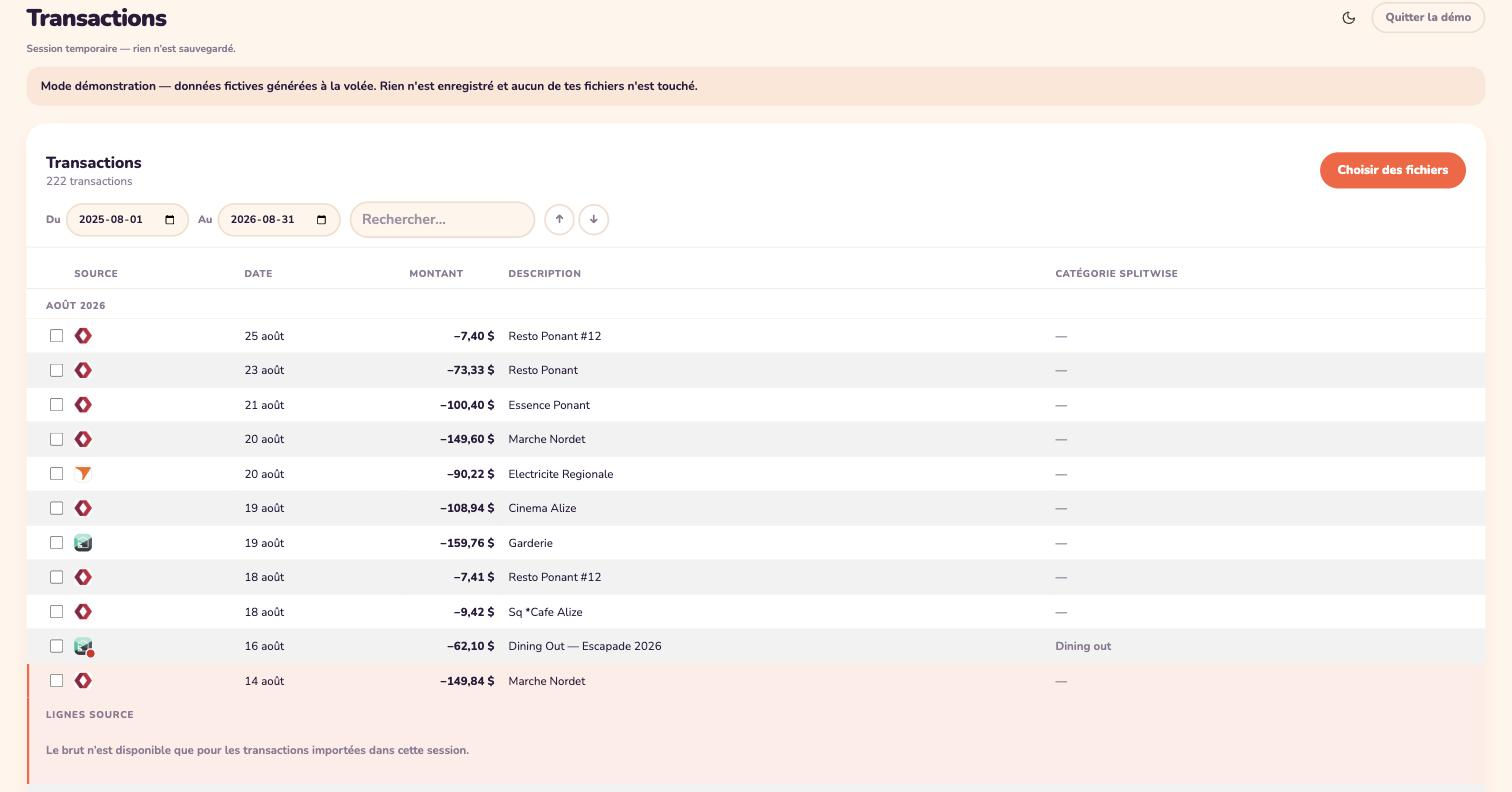
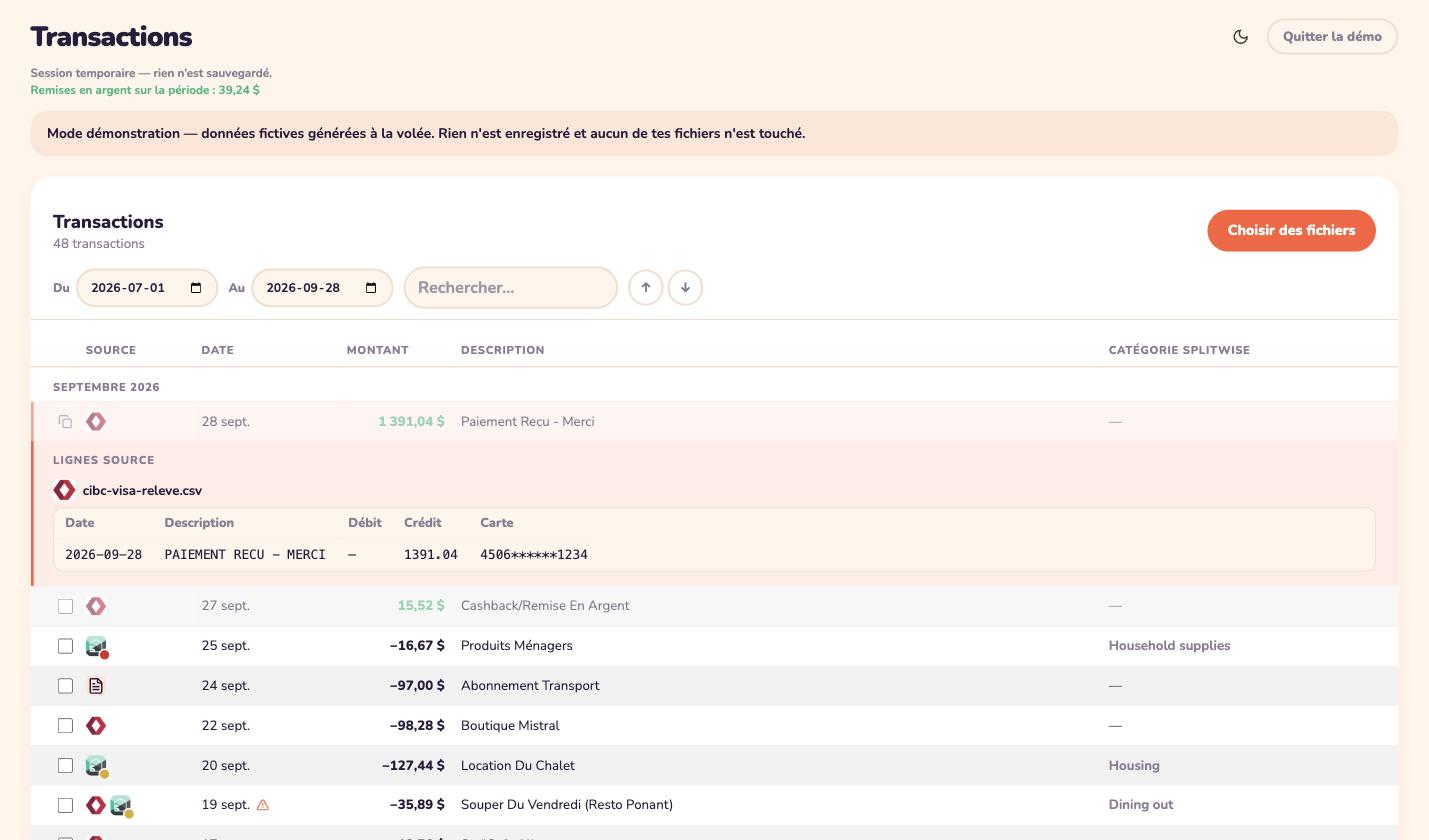
Rewrite the README around the app that exists
The README described a persistence layer that was removed a while ago: a
budget folder picked through the File System Access API, several budgets to
switch between, a Drive/Dropbox sync suggestion, and a browser-support note
about showDirectoryPicker. None of it is true — the app has been session-only
since the store stopped writing anything, and it says so on screen.

It also promised an emoji picker that went with the categories screen, and
named emoji-mart as a runtime dependency the app no longer has.

The whole thing is shorter now, and the two-column Screenshots table is gone:
one image, the light theme the app opens on, straight under the opening
paragraph. The screenshot is regenerated from the new demo, so the rows in it
are the rows a visitor actually lands on.

Claude-Session: https://claude.ai/code/session_016JVZ7fn8mQ1uSLTFgfvpuC

diff --git a/index.html b/index.html
@@ -10,7 +10,7 @@
 
 <!-- Link previews. Facebook, LinkedIn, Slack and iMessage all refuse a
      relative og:image, so every URL here is absolute. The screenshot doubles
-     as the README's, and its 1512x792 is the 1.91:1 these cards crop to. -->
+     as the README's; cards crop it to their own 1.91:1. -->
 <meta property="og:type" content="website">
 <meta property="og:site_name" content="Simple Budgeto">
 <meta property="og:locale" content="fr_CA">
@@ -19,8 +19,8 @@
 <meta property="og:description" content="Réconcilie tes relevés bancaires et tes dépenses Splitwise à partir de tes exports CSV. Tout reste dans ton navigateur.">
 <meta property="og:image" content="https://ericmatte.me/simple-budgeto/docs/screenshots/transactions-light.jpg">
 <meta property="og:image:type" content="image/jpeg">
-<meta property="og:image:width" content="1512">
-<meta property="og:image:height" content="792">
+<meta property="og:image:width" content="1429">
+<meta property="og:image:height" content="840">
 <meta property="og:image:alt" content="La liste des transactions de Simple Budgeto, groupée par mois, avec le logo de la source de chaque ligne.">
 
 <meta name="twitter:card" content="summary_large_image">

diff --git a/README.md b/README.md
@@ -1,82 +1,64 @@
 # Simple Budgeto
 
-A tiny, no-build web app for reconciling personal transactions from your bank and
-credit-card CSV exports. It reads the files locally, removes duplicates across
-statements, matches Splitwise expenses to the bank line that paid them, and lets
-you review everything in one table.
+A tiny, no-build web app for reconciling personal transactions from your bank
+and credit-card CSV exports. It reads the files in the browser, removes
+duplicates across statements, matches Splitwise expenses to the bank line that
+paid them, and lays everything out in one table.
 
-**Your data never leaves your machine.** There is no server and no account — the
-app writes to a folder you pick (via the browser's File System Access API) and
-nothing is uploaded anywhere.
+![The transactions list, grouped by month, with each row's source logo](docs/screenshots/transactions-light.jpg)
 
-🔗 **Live app:** https://ericmatte.github.io/simple-budgeto/
-🔍 **Try the demo (fake data, nothing saved):** https://ericmatte.github.io/simple-budgeto/?demo
+🔗 **Live app:** https://ericmatte.me/simple-budgeto/
+🔍 **Demo (fake data):** https://ericmatte.me/simple-budgeto/?demo
 
-## Screenshots
+## What it does
 
-| Light | Dark |
-| --- | --- |
-| ![Transactions view, light theme](docs/screenshots/transactions-light.jpg) | ![Transactions view, dark theme](docs/screenshots/transactions-dark.jpg) |
-
-## Features
-
-- **CSV import** for CIBC, Tangerine, Wealthsimple, Splitwise, plus a generic
-  fallback parser.
-- **Deduplication** across statements so re-importing an overlapping export does
+- Reads **CIBC**, **Tangerine**, **Wealthsimple** and **Splitwise** exports, plus
+  a generic CSV fallback.
+- **Deduplicates** across statements, so re-importing an overlapping export does
   not create doubles.
-- **Splitwise reconciliation** — pairs a Splitwise expense with the bank
-  transaction that settled it, even when they fall a few days apart.
-- **Filtering** by date range and free-text search, grouped by month.
-- **Light / dark theme**, remembered between visits.
-- Excel-ready copy: each row can be copied as a `+amount+N("note")` formula.
+- **Reconciles Splitwise**: pairs an expense with the bank transaction that
+  settled it, even a few days apart, and flags the gap when there is one.
+- Opens any row to show the **original CSV line** it came from.
+- Filters by date range and free text, grouped by month.
+- Copies a row as an Excel term: `+amount+N("note")`.
+- Light and dark theme, remembered between visits.
 
-## Data & privacy
+## Your data stays in the browser
 
-- The app stores your budget in a local folder you choose. Point it at a folder
-  inside your Drive/Dropbox sync folder if you want it backed up.
-- You can keep several budgets (one per person or project) and switch between
-  them.
-- Demo mode (`?demo`) generates a year of fake data in memory only — no folder is
-  touched and nothing is written to disk.
+Everything happens in the page. There is no server, no account and no upload —
+the transactions live in memory for the length of the session and are gone on
+reload. Only your theme and the date range you picked are kept, in
+`localStorage`.
 
-## Run locally
+## Run it
 
-Requires Node 22+.
-
-```bash
-npm install   # only needed to regenerate the vendored emoji-mart files
-npm start     # serves the app at http://localhost:5173
-```
-
-A static server is needed because the File System Access API requires a secure
-context (`http://localhost` counts, `file://` does not). `serve.js` is a
-dependency-free static server for exactly this.
-
-## Tests
+Requires Node 22+. No build step, no dependencies at runtime.
 
 ```bash
-npm test
+npm install   # dev tooling only (tests, linter, dead-code check)
+npm start     # http://localhost:5173
 ```
 
-Uses the built-in `node:test` runner. The suite also runs in **GitHub Actions on
-every push and pull request** (see `.github/workflows/ci.yml`).
+A static server is needed because ES modules do not load over `file://`.
+`serve.js` is a dependency-free one for exactly that.
+
+## Checks
+
+```bash
+npm test        # node:test
+npm run lint    # eslint
+npm run deadcode  # knip: unused files and dependencies
+```
+
+All three run in GitHub Actions on every push and pull request.
 
 ## Deployment
 
-The app is plain static files with no build step, served from the repository root
-by GitHub Pages (`main` branch, `/` folder).
-
-Everything resolves through relative paths, so it also works unchanged from any
-sub-path or other static host (Cloudflare Pages, Netlify, …). The one runtime
-dependency, [emoji-mart](https://github.com/missive/emoji-mart), is vendored into
-`vendor/emoji-mart/` so no `node_modules` is required at runtime.
-
-## Browser support
-
-Picking a budget folder relies on `showDirectoryPicker`, which today ships only in
-Chromium-based browsers (Chrome, Edge, Brave, Arc). Demo mode works everywhere.
+Plain static files with no build step, served from the repository root by
+GitHub Pages. Everything resolves through relative paths, so it works unchanged
+from any sub-path or other static host.
 
 ## Tech
 
-Vanilla JavaScript ES modules, no framework, no bundler. `emoji-mart` is the only
-third-party runtime code.
+Vanilla JavaScript ES modules. No framework, no bundler, no third-party runtime
+code.
